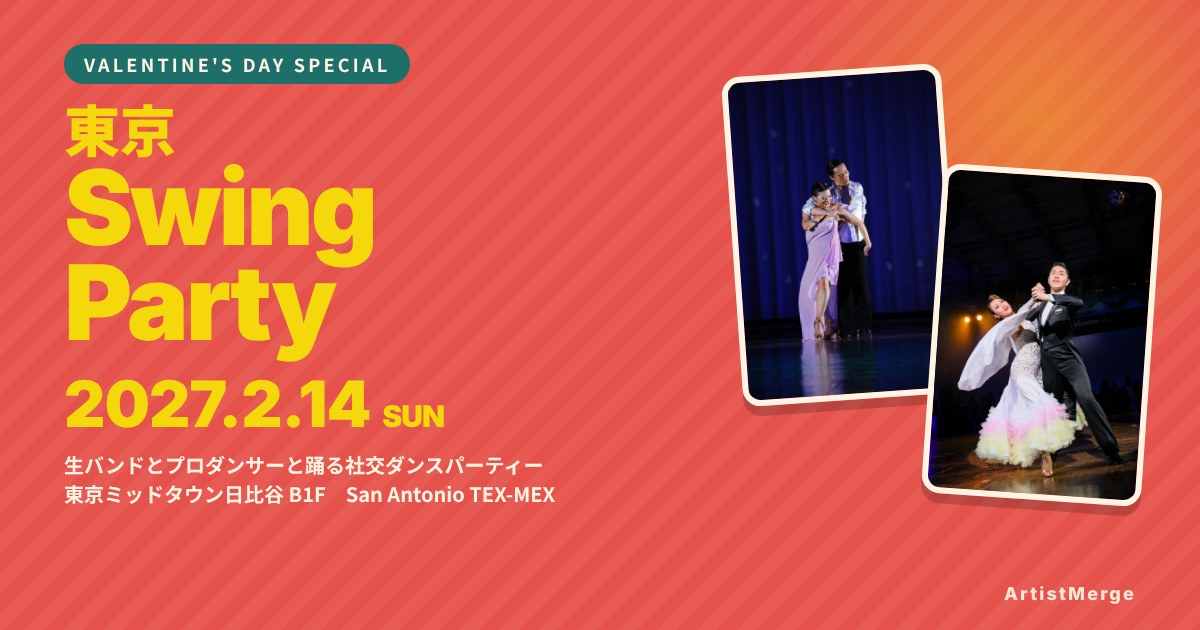
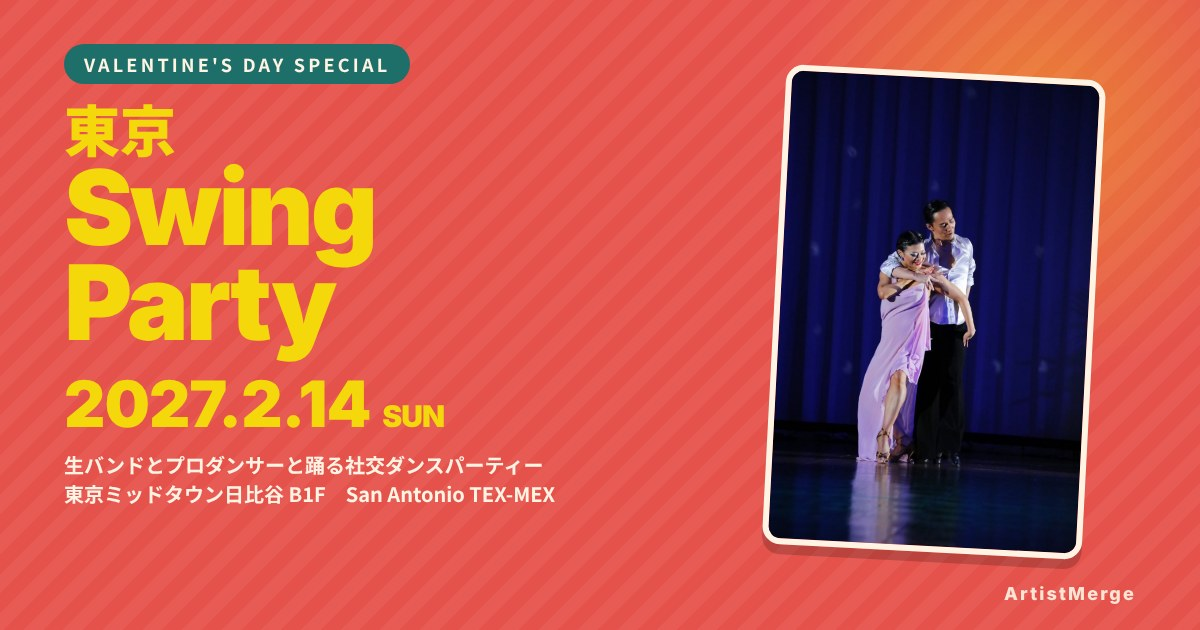
バレンタインダンスLP: ペアを解消したダンサーの写真を外す（LP・シェア画像）
Claude-Session: https://claude.ai/code/session_01KXbPwx8ifkFQT83sgoBhh3

Changed region(s): [[0.5858, 0.0905, 0.9867, 0.9048]]

diff --git a/app/events/valentine-dance-2027/page.tsx b/app/events/valentine-dance-2027/page.tsx
@@ -201,21 +201,13 @@ export default function ValentineDance2027Page() {
       {/* Dancer photos */}
       <section style={{ backgroundColor: C.redDeep }}>
         <div className="mx-auto max-w-[1200px] px-5 md:px-10 pt-16 md:pt-24">
-          <div className="grid grid-cols-2 gap-4 md:gap-8 max-w-[760px] mx-auto">
-            {[
-              { src: "/images/dance-stage.jpg", rot: "-rotate-2" },
-              { src: "/images/dance-ballroom.jpg", rot: "rotate-2 md:translate-y-8" },
-            ].map((p) => (
-              <div
-                key={p.src}
-                className={`relative aspect-[2/3] overflow-hidden rounded-2xl border-4 shadow-[0_10px_0_rgba(0,0,0,0.18)] ${p.rot}`}
-                style={{ borderColor: C.cream }}
-              >
-                <Image src={asset(p.src)} alt="プロダンサーのペア" fill sizes="(min-width: 768px) 380px, 50vw" className="object-cover" />
-              </div>
-            ))}
+          <div
+            className="relative mx-auto aspect-[2/3] w-[68%] max-w-[360px] -rotate-2 overflow-hidden rounded-2xl border-4 shadow-[0_10px_0_rgba(0,0,0,0.18)]"
+            style={{ borderColor: C.cream }}
+          >
+            <Image src={asset("/images/dance-stage.jpg")} alt="プロダンサーのペア" fill sizes="(min-width: 768px) 360px, 68vw" className="object-cover" />
           </div>
-          <p className="mt-6 md:mt-14 text-center text-[12px] opacity-75">写真は過去のイベントに出演したプロダンサーです</p>
+          <p className="mt-6 md:mt-8 text-center text-[12px] opacity-75">写真は過去のイベントに出演したプロダンサーです</p>
         </div>
       </section>
 
